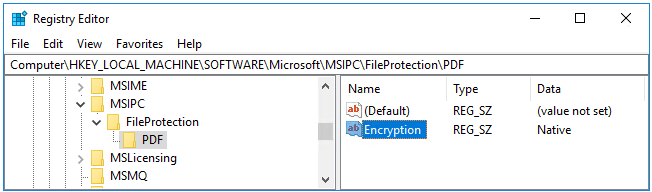
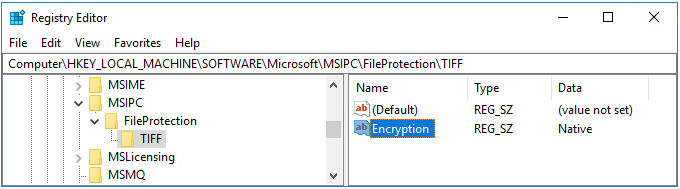
update picture to show TIFF rather than original PDF

diff --git a/Azure-RMSDocs/deploy-aip-scanner.md b/Azure-RMSDocs/deploy-aip-scanner.md
@@ -296,6 +296,10 @@ To change the default scanner behavior for protecting file types other than Offi
 
 When you edit the registry, manually create the **MSIPC** key and **FileProtection** key if they do not exist, as well as a key for each file name extension.
 
+For example, for the scanner to protect TIFF images in addition to Office files and PDFs, the registry after you have edited it, will look like the following picture:
+
+![Editing the registry for the scanner to apply protection](./media/editregistry-scanner.png)
+
 ## When files are rescanned
 
 For the first scan cycle, the scanner inspects all files in the configured data stores and then for subsequent scans, only new or modified files are inspected. 
